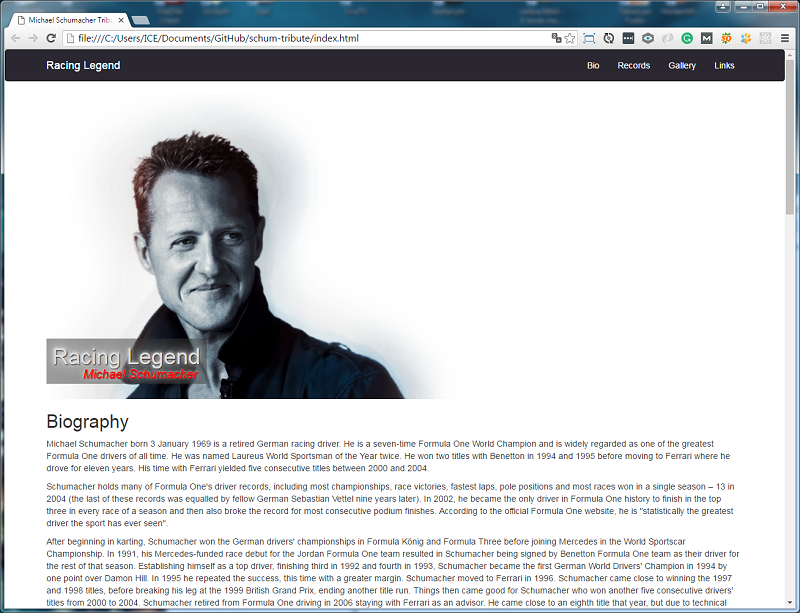
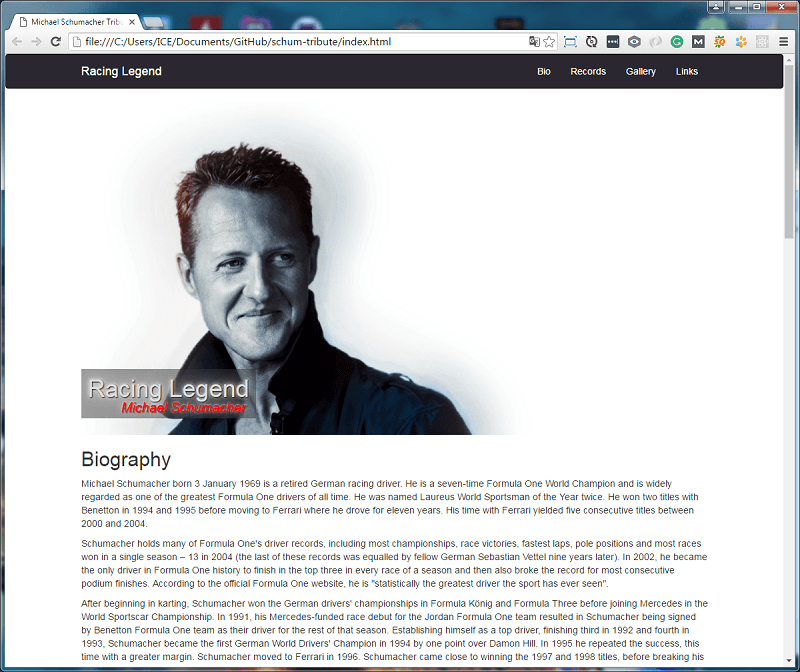
Add more portfolio items, some styling improvement

Changed region(s): [[0.0, 0.186, 1.0, 1.0], [0.0, 0.0, 1.0, 0.3719], [0.0, 0.279, 0.0312, 0.3409]]

diff --git a/index.html b/index.html
@@ -58,14 +58,14 @@
         <h2 class="grad">About Me</h2>
         <p>My name is Alex Efremov. I was born, grew up and currently live in Ukraine. I graduated college of mechanical engineering, but I realized that manufacturing automation was not something I wanted to do in my life.</p>
 
-        <p>After graduation,  I was a professional online poker player. Aside of that, I was creating websites about formula one, poker, affiliate programs, and for a short period of time I was writing articles for other resources.</p>
+        <p>After graduation,  I was a professional online poker player. Aside of that, I was managing websites about formula one, poker, affiliate programs, and for a short period of time I was writing articles for other resources.</p>
 
         <p>I switched my career to web development and I'm sure it was the right desicion. I love what I'm doing - and I think it's really important for successful career. I'm always trying mastering my current skills and learning something new. Currently I'm learning on <a href="https://www.freecodecamp.com/fremdev">Freecodecamp</a>.</p>
       </section>
       <section id="portfolio">
         <h2 class="grad">Portfolio</h2>
         <div class="portfolio-preview">
-          <p>In this section you can find examples of my works with live demo and descriptions</p>
+          <p>In this section you can find examples of my work with links to live demo and descriptions</p>
         </div>
         <div class="row">
           <div class="col-sm-6">
@@ -74,19 +74,67 @@
                 <img class="img-responsive" src="img/school.png" alt="School site" />
               </a>
               <div class="site-description">
-                <p><b>Description: </b>Site for one of the best schools in the city Toretsk. Content is mixed Ukrainian and Russian languages.</p>
+                <p><b>Description: </b>Site for one of the best school in the city Toretsk. The content is mixed: Ukrainian and Russian languages.</p>
                 <p><b>My work: </b>Install WordPress and plugins, all customisation and settings, transfer and adjustment all content from old non-WordPress site.</p>
               </div>
             </div>
           </div>
           <div class="col-sm-6">
             <div class="portfolio-item">
-              <a href="#">
+              <a href="http://fremler.com/">
                 <img class="img-responsive" src="img/fremler.png" alt="Fremler" />
               </a>
               <div class="site-description">
                 <p><b>Description: </b>Personal blog about web development and earning money online. English language.</p>
                 <p><b>My work: </b>Install WordPress and plugins, all customisation and settings, writing all content.</p>
+              </div>
+            </div>
+          </div>
+        </div>
+        <div class="row">
+          <div class="col-sm-6">
+            <div class="portfolio-item">
+              <a href="http://codepen.io/fremdev/full/EyVYVm/">
+                <img class="img-responsive" src="img/wiki.png" alt="Wikipedia Search App" />
+              </a>
+              <div class="site-description">
+                <p><b>Description: </b>Wikipedia Search app using MediaWiki API.</p>
+                <p><b>My work: </b>App from scratch. Request JSON from a remote server using jQuery AJAX methods. Minimalistic responsive design</p>
+              </div>
+            </div>
+          </div>
+          <div class="col-sm-6">
+            <div class="portfolio-item">
+              <a href="http://codepen.io/fremdev/full/ZOQKRp/">
+                <img class="img-responsive" src="img/twitch.png" alt="Twitch Streamers" />
+              </a>
+              <div class="site-description">
+                <p><b>Description: </b>Twitch Streamers app uses Twitch API for receiving actual information about the status of channels.</p>
+                <p><b>My work: </b>App from scratch. Request JSON from a remote server using jQuery AJAX methods. If a channel is online, it's possible to see more details. It's possible to change which channels to see - all of them or channels with a certain status. Responsive design.</p>
+              </div>
+            </div>
+          </div>
+        </div>
+        <div class="row">
+          <div class="col-sm-6">
+            <div class="portfolio-item">
+              <a href="http://codepen.io/fremdev/full/JKdyjG/">
+                <img class="img-responsive" src="img/weather.png" alt="Current Weather" />
+              </a>
+              <div class="site-description">
+                <p><b>Description: </b>Using openweathermap.org API for receiving user's weather info and show appropriate icons and picture. </p>
+                <p><b>My work: </b>App from scratch. AJAX requests and other stuff using Vanilla JavaScript. Creating layout with flexboxes.</p>
+              </div>
+            </div>
+          </div>
+          <div class="col-sm-6">
+            <div class="portfolio-item">
+              <a href="http://codepen.io/fremdev/full/GqRYrg/">
+                <img class="img-responsive" src="img/quotes.png" alt="Startup Quotes" />
+              </a>
+              <div class="site-description">
+                <p><b>Description: </b>Simple Startup Quotes application.</p>
+                <p><b>My work: </b>App from scratch. Using AJAX requests to <a href="https://github.com/gophergala/wisdom">Wisdom API</a> for getting quotes. Styling: pure CSS without Bootstrap. </p>
               </div>
             </div>
           </div>
@@ -124,7 +172,7 @@
                 <div class="contact-option">
                   <a href="https://twitter.com/fremdev"><i class="contact-icon fa fa-twitter-square fa-4x"></i>
                   <div class="contact-description">
-                    Send me a message on Twitter
+                    Follow me on Twitter
                   </div>
                   </a>
                 </div>
@@ -133,7 +181,7 @@
                 <div class="contact-option">
                   <a href="https://linkedin.com/fremdev"><i class="contact-icon fa fa-linkedin-square fa-4x"></i>
                   <div class="contact-description">
-                    Connect me in LinkedIn
+                    Connect me on LinkedIn
                   </div>
                   </a>
                 </div>
@@ -144,6 +192,26 @@
                   <a href="https://github.com/fremdev"><i class="contact-icon fa fa-github-square fa-4x"></i>
                   <div class="contact-description">
                     Check my GitHub profile
+                  </div>
+                  </a>
+                </div>
+              </div>
+              <div class="col-xs-6 col-md-2">
+                <div class="contact-option">
+                  <a href="http://codepen.io/fremdev/"><i class="contact-icon fa fa-codepen fa-4x"></i>
+                  <div class="contact-description">
+                    Check my CodePen profile
+                  </div>
+                  </a>
+                </div>
+              </div>
+            </div>
+            <div class="row">
+              <div class="col-xs-6 col-md-2 col-md-offset-4">
+                <div class="contact-option">
+                  <a href="https://www.freecodecamp.com/fremdev"><i class="contact-icon fa fa-fire fa-4x"></i>
+                  <div class="contact-description">
+                    Find me on FreeCodeCamp
                   </div>
                   </a>
                 </div>

diff --git a/css/main.css b/css/main.css
@@ -53,11 +53,11 @@ Navigation
 }
 
 .navbar-default .navbar-brand:focus, .navbar-default .navbar-brand:hover {
-  color: #cc5568;
+  color: #000;
 }
 
 .navbar-default .navbar-nav>li>a:focus, .navbar-default .navbar-nav>li>a:hover {
-  color: #cc5568;
+  color: #000;
 }
 
 .navbar-default .navbar-toggle .icon-bar {
@@ -85,7 +85,7 @@ Promo
   background-color: #586477;
   font-size: 1.2em;
   color: #fff;
-  margin-top: 70px;
+  margin-top: 50px;
 }
 
 .promo-text {
@@ -181,4 +181,14 @@ footer a {
 
 footer a:hover {
   color: #ee3333;
+}
+
+/*****************
+Media Queries
+*****************/
+
+@media (max-width: 768px) {
+  .promo {
+    text-align: center;
+  }
 }
